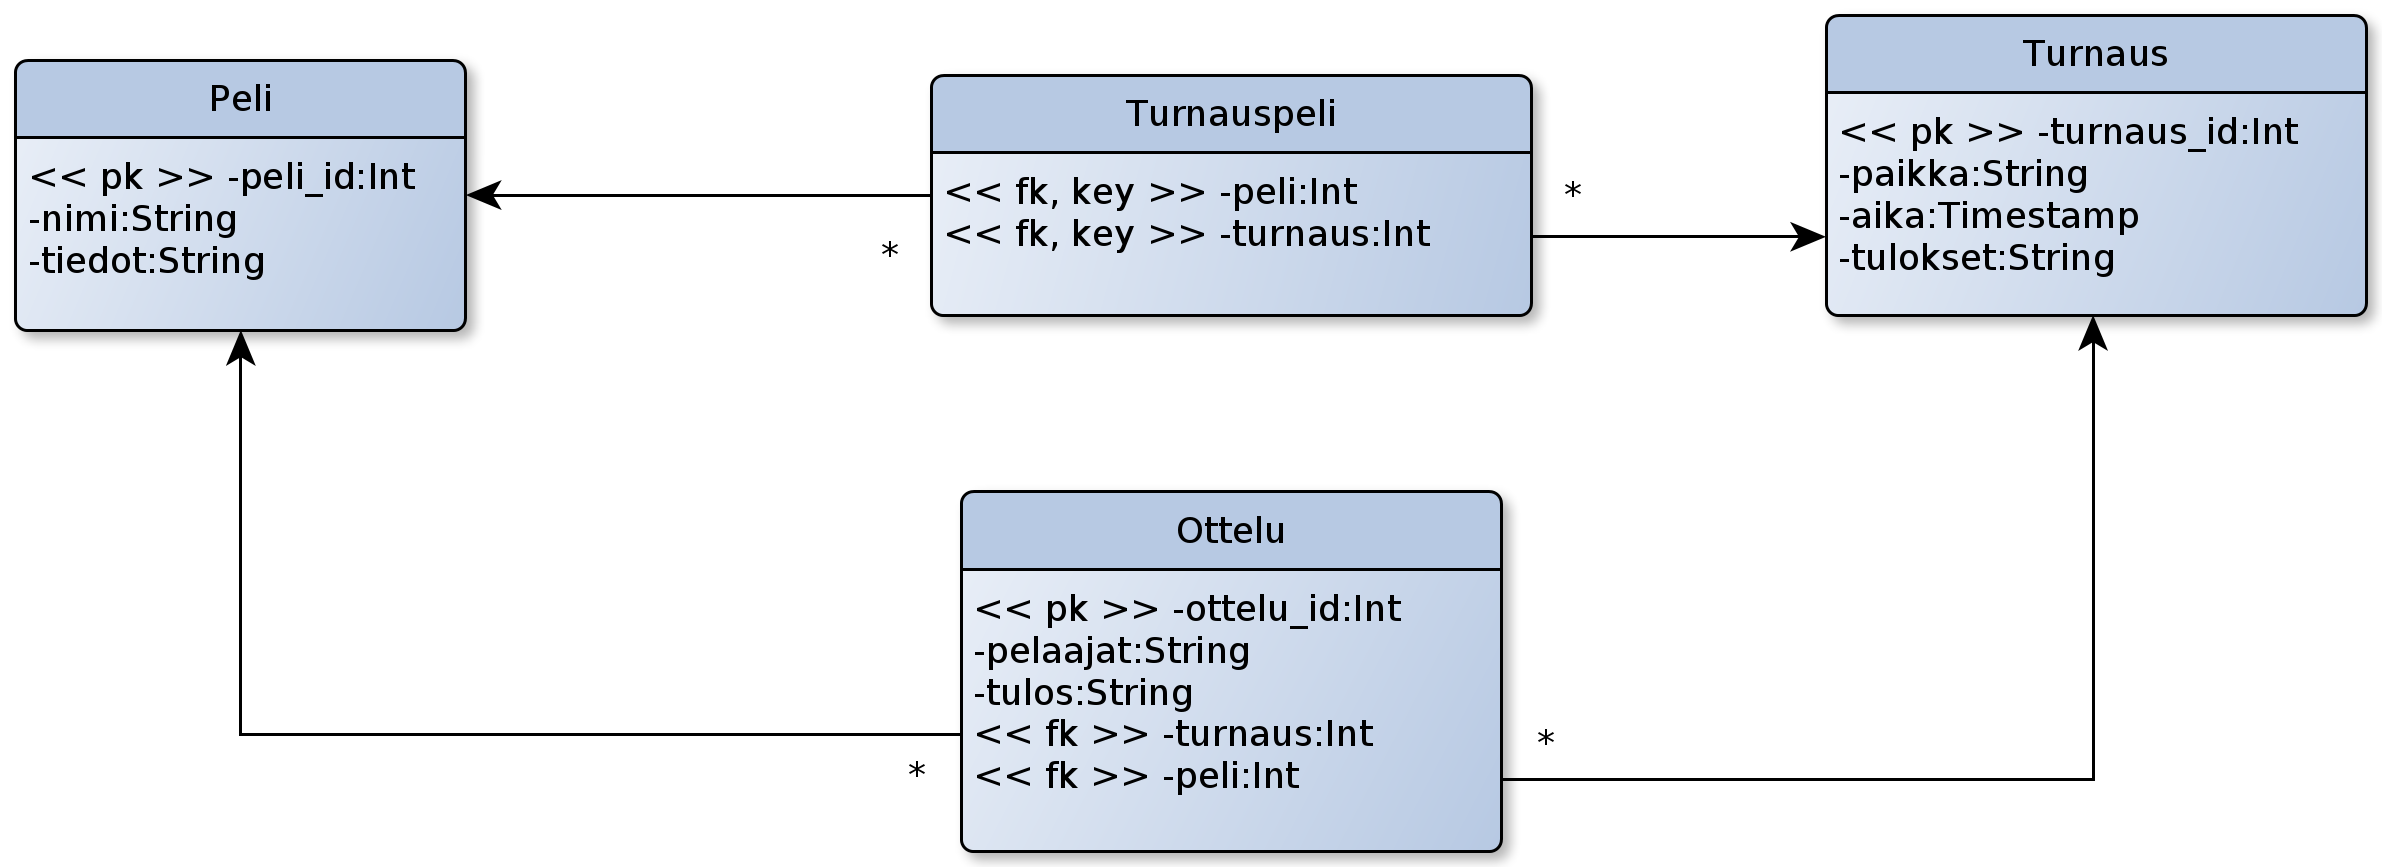
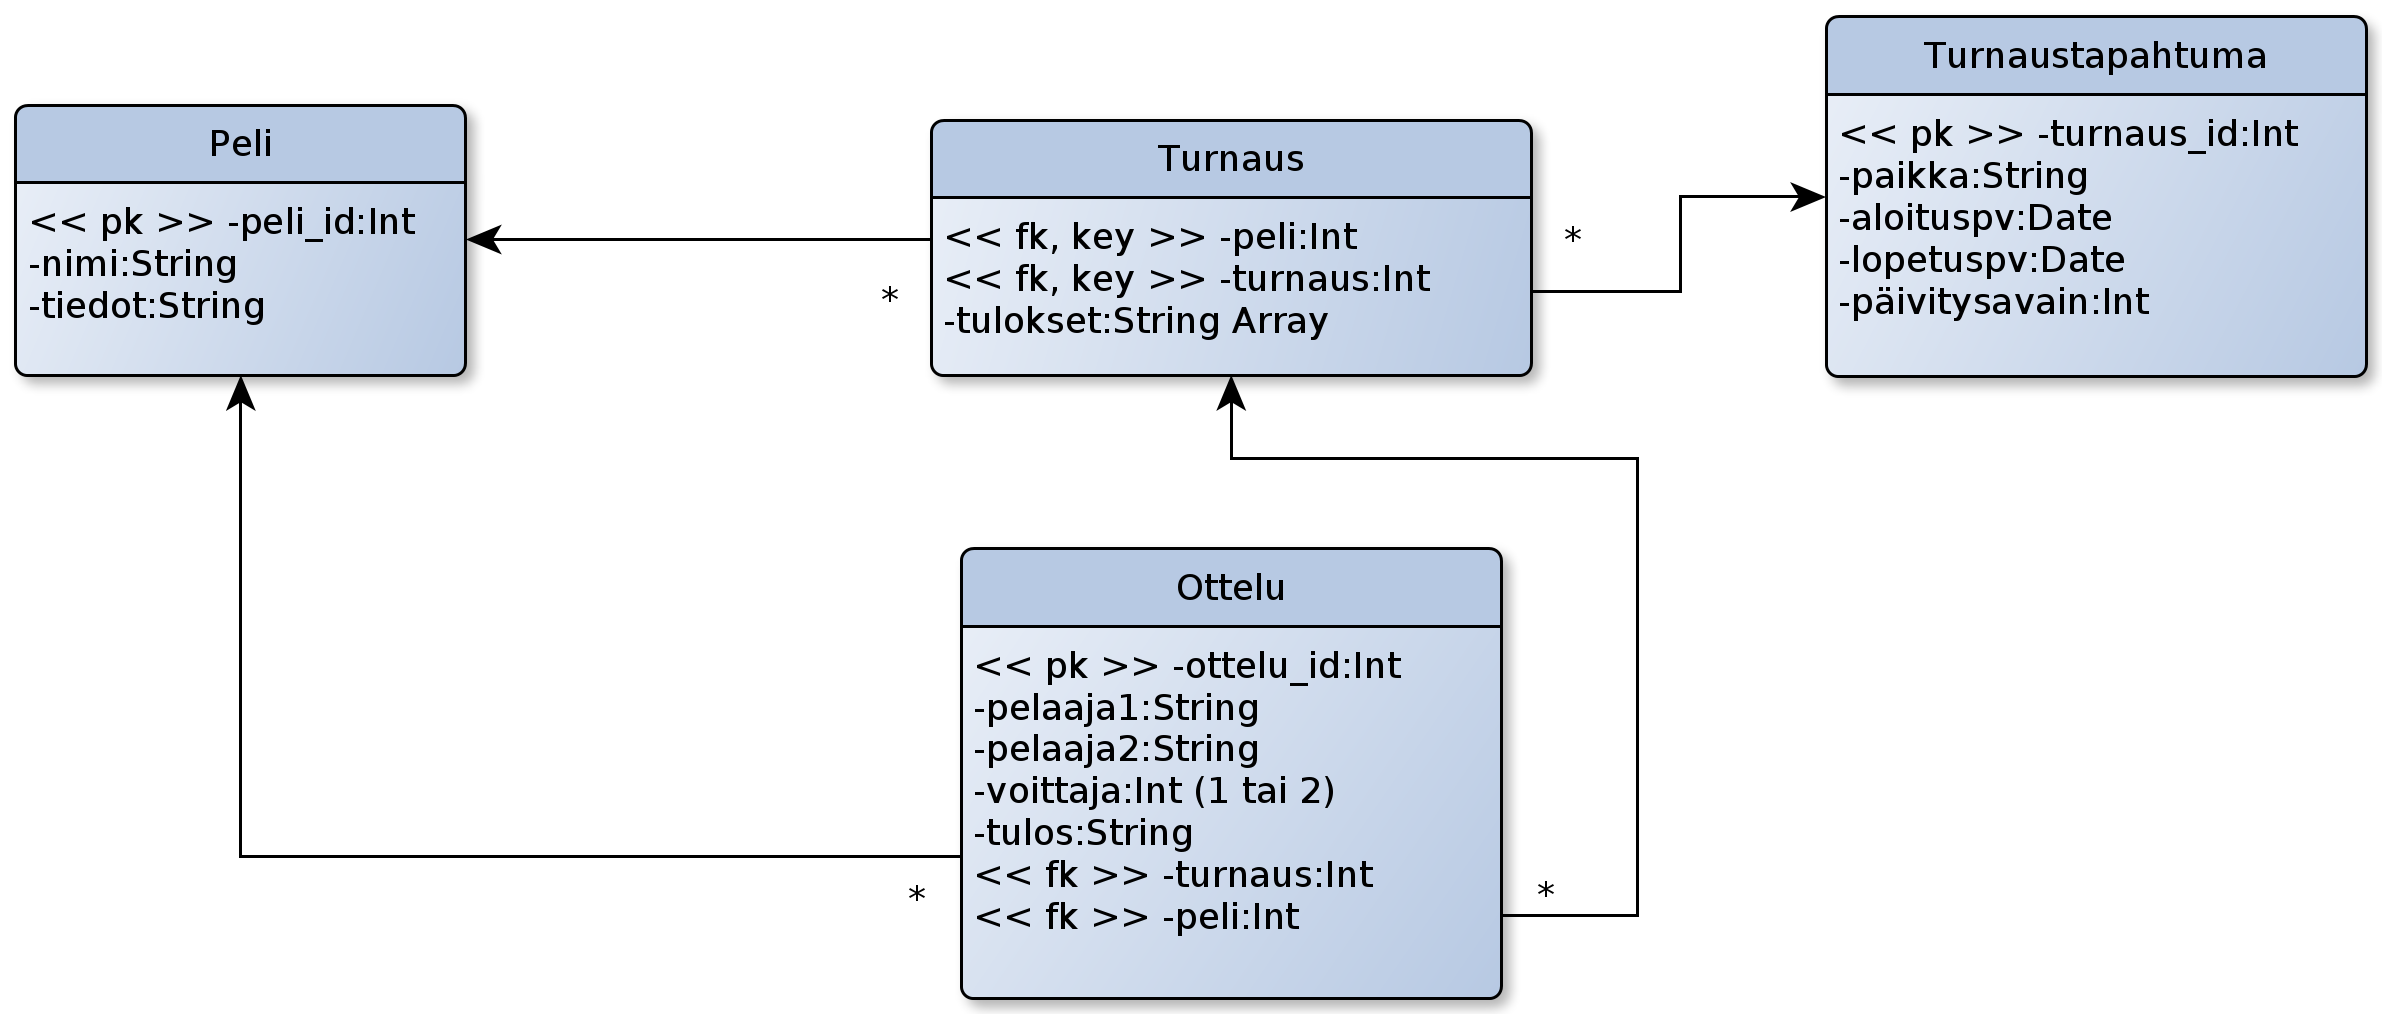
Tietokantasuunnitelmien päivitystä

diff --git a/doc/dokumentaatio.md b/doc/dokumentaatio.md
@@ -65,20 +65,31 @@ Attribuutti|Arvojoukko|Kuvailu
 ----|----|----
 Nimi|Merkkijono|Nimi
 Tiedot|Merkkijono|Lyhyt kuvaus, julkaisuvuosi jne.
+Taistelupeli, jota pelataan turnauksissa.
 
-####Tietokohde: Turnaus
+####Tietokohde: Turnaustapahtuma
 Attribuutti|Arvojoukko|Kuvailu
 ----|----|----
 Nimi|Merkkijono|Nimi
 Paikka|Merkkijono|Tapahtumapaikka
 Aika|Aika|Tapahtuma-aika
-Tulokset|Merkkijono?|Turnauksen loppusijoitukset, jotain muuta tilastoja?
+Päivitysavain|Merkkijono|Avain, jonka omaava käyttäjä voi päivittää turnauksen tuloksia.
+Tapahtuma, jossa voidaan pelata turnauksia yhdestä tai useammasta pelistä.
+
+####Tietokohde: Turnaus
+Attribuutti|Arvojoukko|Kuvailu
+----|----|----
+Tulokset|String Array|Turnauksen loppusijoitukset
+Yksittäiseen peliin liittyvä turnaus, joka on osa jotain turnaustapahtumaa. Turnauksen jälkeen tiedetään sen loppusijoitukset. Toimii myös liitostauluna.
 
 ####Tietokohde: Ottelu
 Attribuutti|Arvojoukko|Kuvailu
 ----|----|----
 Nimi|Merkkijono|Nimi
-Pelaajat|Merkkijono|Ottelun osapuolet
-Tulos|Merkkijono|Ottelun lopputulos
+Pelaaja1|Merkkijono|Ottelun osapuoli
+Pelaaja2|Merkkijono|Ottelun osapuoli
+Voittaja|Int 1 tai 2|Voittajan numero
+Tulos|Merkkijono|Ottelun lopputulos, esim. 3-2
+Yksittäinen ottelu, joka on osa jotakin turnausta.
 
 ![Relaatiotietokantakaavio](https://github.com/Heliozoa/Tsoha-Bootstrap/blob/master/doc/relaatiotietokantakaavio.png)
